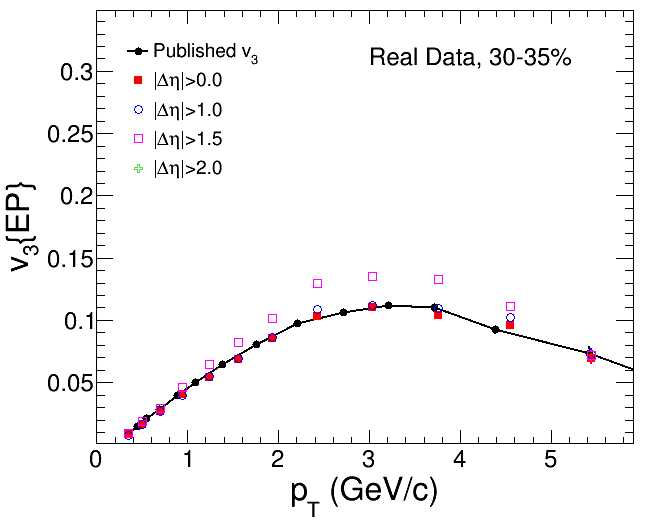
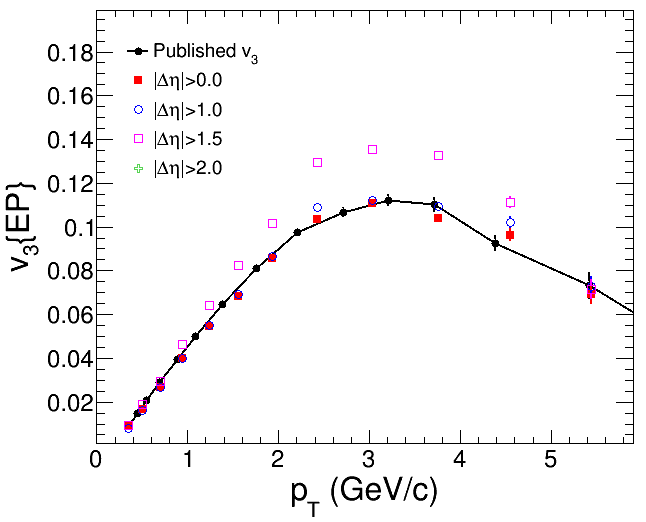
add plot for v3

diff --git a/eventplane/old2012/realData/plotV3_gap0_gap1.C b/eventplane/old2012/realData/plotV3_gap0_gap1.C
@@ -80,7 +80,7 @@ double temp;
  hist->SetXTitle("p_{T} (GeV/c)");
  hist->SetYTitle("v_{3}{EP}");
  hist->SetMinimum(0.001);
- hist->SetMaximum(0.349);
+ hist->SetMaximum(0.199);
  hist->GetXaxis()->CenterTitle(1);
  hist->GetYaxis()->CenterTitle(1);
  hist->GetYaxis()->SetTitleOffset(1.1);
